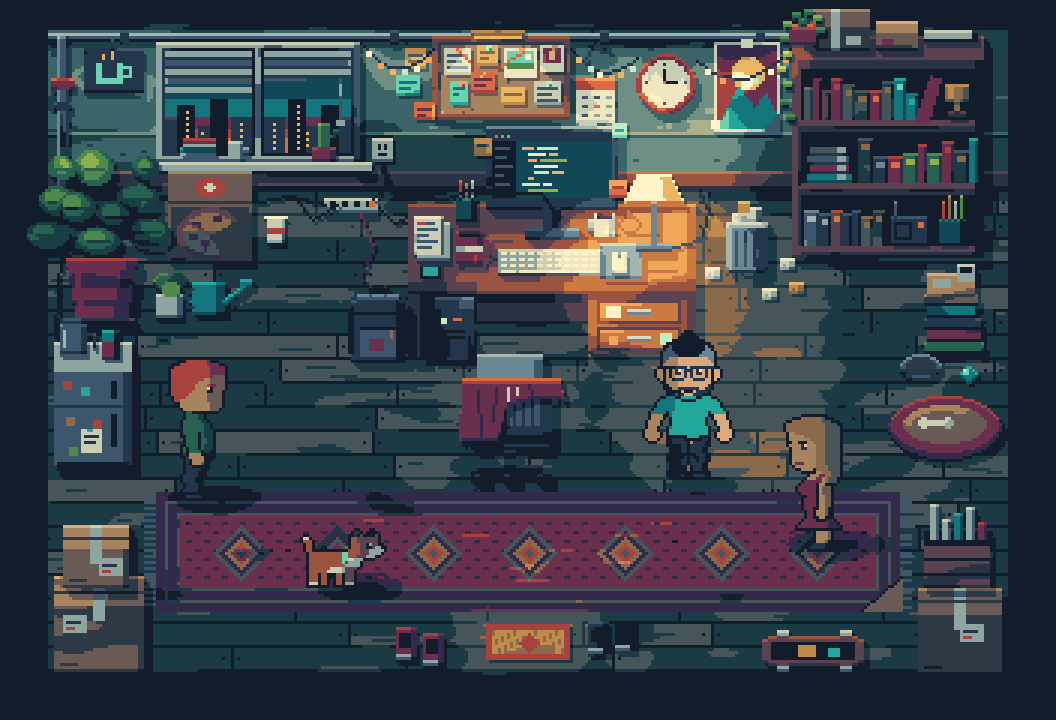
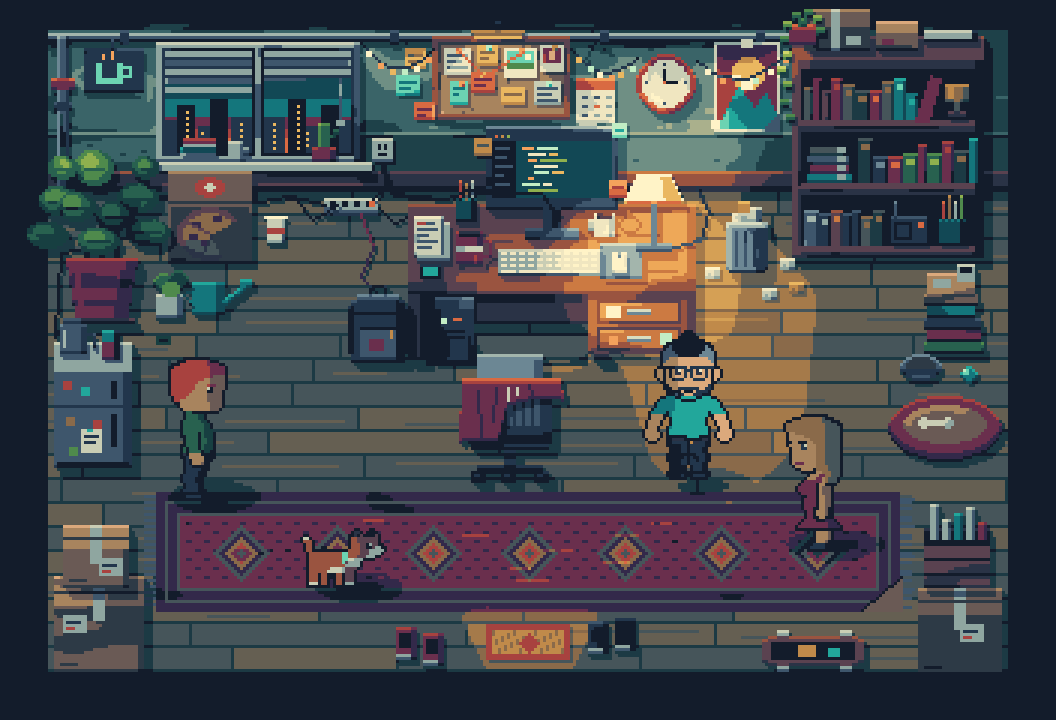
prototype(#65): studio second pass: plank floor, fish tank, walk-behind
The floor is whole planks in two close woods instead of blotches, in both
rooms. A fish tank and a taped court fill the middle. Tall things (tank,
shelving, arcade, lamps) can be walked behind.

diff --git a/art-tests/claude-drawn/directions/make_d06_studio.py b/art-tests/claude-drawn/directions/make_d06_studio.py
@@ -16,24 +16,25 @@ from PIL import Image, ImageChops, ImageDraw
 sys.path.insert(0, os.path.dirname(os.path.abspath(__file__)))     # python3 -I leaves the script's folder out
 import make_d06_lived_in_clutter as m
 from make_d06_lived_in_clutter import (R, E, G, L, T, prop, light, note, FLOOR, DESK, WALL, GREEN, METAL, TEAL,
-                                       CARD, RED, PAPER, FLAT)
+                                       CARD, RED, PAPER, WOOD, FLAT)
 
 W, H, TILE, COLS, ROWS = 896, 512, 32, 28, 16
 X0, X1, Y0, Y1 = 16, W - 16, 64, H - 16     # the floor
 DOOR = 13                                   # the door gap is this column of the bottom edge
 SPOTS = {'hero': [DOOR, 14], 'dana': [18, 2], 'visitor': [2, 3], 'dog': [[24, 14], [25, 14]]}
-THINGS = []                                 # (mask, solid) of every thing of the last build
+THINGS = []                                 # (mask, solid, tall) of every thing of the last build
 
 
 @contextmanager
-def thing(solid=True):
+def thing(solid=True, tall=False):
     """What is drawn inside is one thing on the tile grid (a desk with all that is on it, a rug): its mask is
     kept, with whether it is solid or flat (may be stood on). What hangs on the wall above the floor is not
-    wrapped: rows 0 and 1 are never free."""
+    wrapped: rows 0 and 1 are never free. tall: it stands on the tile row of its foot and all of it above
+    that row is height, not depth (a lamp, a cabinet seen from the front), so a figure can stand behind it."""
     m0, l0 = m.mat.copy(), m.lvl.copy()
     yield
     d = ImageChops.lighter(ImageChops.difference(m.mat, m0), ImageChops.difference(m.lvl, l0))
-    THINGS.append((d.point(lambda v: 255 * (v > 0)), solid))
+    THINGS.append((d.point(lambda v: 255 * (v > 0)), solid, tall))
 
 
 def tiles():
@@ -43,8 +44,16 @@ def tiles():
     a figure would stand on them) cover more than 10% of those rows. Rows 0, 1, 15 and columns 0, 27 are wall.
     Upper layer: in a free tile, the pixels of solid things that go on below the tile's bottom edge. Such a thing
     stands in front of a figure on that tile (a chair back, the top of a monitor, a lamp shade), so the game
-    draws those pixels over the figures."""
-    solids = [(np.asarray(mk) > 0, mk.getbbox()[3]) for mk, solid in THINGS if solid and mk.getbbox()]
+    draws those pixels over the figures. What a tall thing has above the row of its foot blocks nothing and is
+    upper layer wherever the tile is free."""
+    solids, high = [], np.zeros((H, W), bool)
+    for mk, solid, tall in THINGS:
+        if solid and mk.getbbox():
+            a, bottom = np.asarray(mk) > 0, mk.getbbox()[3]
+            if tall:
+                cut = (bottom - 1) // TILE * TILE
+                high[:cut] |= a[:cut]; a = a.copy(); a[:cut] = False
+            solids.append((a, bottom))
     free, upper = set(), np.zeros((H, W), bool)
     for row in range(2, ROWS - 1):
         y0, y1 = row * TILE, row * TILE + TILE
@@ -58,7 +67,7 @@ def tiles():
             s, o = stand[:, col * TILE:col * TILE + TILE], over[:, col * TILE:col * TILE + TILE]
             if (s | o).mean() > .5 or (s | o)[12:].mean() > .2 or s[12:].mean() > .1:
                 continue
-            free.add((col, row)); upper[y0:y1, col * TILE:col * TILE + TILE] = o
+            free.add((col, row)); upper[y0:y1, col * TILE:col * TILE + TILE] = o | high[y0:y1, col * TILE:col * TILE + TILE]
     return free, Image.fromarray(upper.astype(np.uint8) * 255)
 
 
@@ -118,17 +127,7 @@ def shell():
     for x in range(20, X1, 9):
         R(x + rnd.randrange(3), 47 + rnd.randrange(8), 2, 1, WALL, 2.3)                        # scuffs
     R(X0, 57, fw, 7, DESK, 2.8); R(X0, 57, fw, 1, DESK, 4); R(X0, 62, fw, 2, DESK, 1.6)       # skirting
-    for i in range((Y1 - Y0) // 8):                            # floorboards
-        y, x = Y0 + 8 * i, X0 - rnd.randrange(40)
-        while x < X1:
-            n = rnd.randrange(34, 80)
-            R(x, y, n, 8, FLOOR, 3 + rnd.choice((-.4, -.2, 0, 0, .2, .35)))
-            R(x, y, 1, 8, FLOOR, 1.8)
-            for _ in range(2):
-                R(x + rnd.randrange(3, n - 16), y + rnd.randrange(2, 6), rnd.randrange(4, 14), 1, FLOOR, 2.5)
-            R(x + 2, y + 3, 1, 1, FLOOR, 1.5); R(x + n - 3, y + 3, 1, 1, FLOOR, 1.5)             # nails
-            x += n
-        R(X0, y + 7, fw, 1, FLOOR, 2)
+    m.boards(X0, X1, Y0, Y1, rnd)
     R(0, 0, W, 8, 0, 0); R(0, 0, X0, H, 0, 0); R(X1, 0, W - X1, H, 0, 0)
     R(0, Y1, DOOR * TILE, H - Y1, 0, 0); R(DOOR * TILE + TILE, Y1, W, H - Y1, 0, 0)
     T(X0, Y0, fw, 3, -1); R(DOOR * TILE, Y1, TILE, 1, FLOOR, 1.5)                               # the wall's shadow, the door sill
@@ -177,18 +176,46 @@ def scraps(rnd, n):
 
 
 def wear(rnd):
-    """The floor of a big room: worn paths lighter, a few stains darker, long scratches."""
-    for x, y, w, h, d in ((400, 430, 70, 5, .5), (392, 438, 90, 6, .5), (410, 420, 46, 4, .5), (300, 140, 80, 5, .4),
-                          (420, 300, 60, 4, .4), (200, 330, 70, 5, .4), (640, 180, 90, 5, .4), (700, 400, 60, 4, .4),
-                          (120, 136, 60, 4, .4)):
-        T(x, y, w, h, d)
-    for x, y, w, h in ((250, 280, 14, 9), (690, 330, 18, 10), (140, 400, 12, 8), (560, 420, 16, 9), (800, 250, 12, 8),
-                       (330, 200, 10, 7)):
-        with prop(cast=None, rim=0):
-            E(x, y, w, h, FLOOR, 2.3); E(x + 2, y + 1, w - 5, h - 4, FLOOR, 2.6)
-    for _ in range(26):
+    """What use has left on the floor: a few scratches along the boards, and a court taped out for the table
+    tennis, its tape worn through in places."""
+    for _ in range(10):
         x, y = rnd.randrange(X0 + 10, X1 - 40), rnd.randrange(Y0 + 30, Y1 - 6)
-        L([(x, y), (x + rnd.randrange(8, 26), y + rnd.randrange(-3, 4))], FLOOR, 2.4)
+        L([(x, y), (x + rnd.randrange(8, 22), y + rnd.randrange(-1, 2))], FLOOR, 2.3)
+    x0, y0, x1, y1 = 200, 270, 346, 362
+    for x in range(x0, x1, 4):
+        for y in (y0, y1):
+            if rnd.random() < .8:
+                R(x, y, 4, 2, PAPER, 4.6)
+    for y in range(y0, y1, 4):
+        for x in (x0, x1 - 2):
+            if rnd.random() < .8:
+                R(x, y, 2, 4, PAPER, 4.6)
+
+
+def aquarium(x, y):
+    """A fish tank on a low cabinet, 60 wide and 56 high. The tank is lit from its lid; pools in room_lights()."""
+    with prop(cast=(3, 4)):
+        R(x, y + 38, 60, 18, DESK, 3); R(x, y + 38, 60, 2, DESK, 4.2); R(x + 29, y + 41, 2, 14, DESK, 2)       # cabinet, two doors
+        R(x + 13, y + 46, 5, 1, DESK, 4.6); R(x + 42, y + 46, 5, 1, DESK, 4.6); R(x, y + 55, 60, 1, DESK, 1.6)
+        R(x + 2, y, 56, 38, METAL, 1.6); R(x + 2, y, 56, 3, METAL, 3)                                           # frame, lid
+        R(x + 4, y + 3, 52, 32, TEAL + FLAT, 2); R(x + 4, y + 3, 52, 12, TEAL + FLAT, 3); R(x + 4, y + 3, 52, 2, TEAL + FLAT, 5)
+        R(x + 4, y + 31, 52, 4, CARD + FLAT, 4); R(x + 9, y + 30, 9, 2, CARD + FLAT, 4); R(x + 38, y + 30, 12, 1, CARD + FLAT, 4)     # sand
+        for px, h in ((8, 16), (11, 10), (14, 20), (41, 22), (45, 13), (50, 8)):                                # weed
+            R(x + px, y + 31 - h, 2, h, GREEN + FLAT, 4); R(x + px + 1, y + 31 - h + 2, 1, h - 2, GREEN + FLAT, 3)
+        R(x + 22, y + 26, 9, 5, METAL + FLAT, 3); R(x + 24, y + 24, 5, 2, METAL + FLAT, 4); R(x + 25, y + 28, 3, 3, METAL + FLAT, 1)  # a rock with a hole
+        for px, py, c, back in ((19, 9, RED, 1), (31, 15, FLOOR, 0), (26, 20, RED, 0), (46, 8, FLOOR, 1), (36, 23, PAPER, 1)):       # fish
+            R(x + px, y + py, 5, 3, c + FLAT, 5); R(x + px + (5 if back else -2), y + py - 1 + (px % 2), 2, 4 - (px % 2), c + FLAT, 4)
+            R(x + px + (0 if back else 4), y + py + 1, 1, 1, METAL + FLAT, 0)
+        for bx, by in ((34, 8), (35, 12), (33, 17), (16, 6)):                                                   # bubbles
+            R(x + bx, y + by, 1, 1, PAPER + FLAT, 6)
+    with prop(cast=(1, 1)):                                     # on the lid: fish food, a net
+        R(x + 6, y - 5, 5, 5, RED, 4); R(x + 6, y - 5, 5, 1, PAPER, 5); R(x + 40, y - 2, 12, 2, METAL, 3.4); R(x + 50, y - 4, 5, 4, GREEN, 3.4)
+    if m.EVE:                                                   # the tank is the middle of the room's lamp
+        light(1, 3, [(x - 6, y - 8), (x + 64, y - 10), (x + 72, y + 30), (x + 66, y + 66), (x - 4, y + 70), (x - 12, y + 26)])
+        light(.8, 5, [(x - 22, y + 30), (x + 30, y + 22), (x + 84, y + 36), (x + 90, y + 84), (x + 26, y + 98), (x - 30, y + 80)])
+        light(.5, 8, [(x - 50, y + 4), (x + 40, y - 26), (x + 112, y + 16), (x + 120, y + 96), (x + 30, y + 124), (x - 56, y + 96)])
+    else:
+        light(.5, 3, [(x - 6, y + 50), (x + 66, y + 50), (x + 72, y + 70), (x - 10, y + 72)])
 
 
 # --- on the wall ----------------------------------------------------------------------------------------------
@@ -928,7 +955,7 @@ def draw():
     m.board(328, 12); m.clock(396, 18); m.poster(422, 14, sock=(308, 46))
     radiator(452, 40)
     with thing():
-        m.window(494, 14, blind=(2, 6), sun=False, sill=False)
+        m.window(494, 14, blind=(2, 6), sun=False, sill=False, town=((0, 22, 7, 1), (7, 29, 4, 2), (12, 24, 5, 2), (18, 17, 5, 1), (24, 27, 5, 2)))
     whiteboard(580, 14); hooks(638, 20); frames(770, 8)
     m.fairy_lights(((304, 14, 328, 16, 7), (374, 16, 396, 19, 6), (416, 20, 448, 15, 8), (448, 15, 492, 17, 9),
                     (700, 12, 740, 14, 8), (740, 14, 770, 11, 6), (826, 12, 878, 16, 9)))
@@ -972,7 +999,7 @@ def draw():
     # the reading corner
     with thing():
         armchair(802, 142)
-    with thing():
+    with thing(tall=True):
         floor_lamp(854, 186)
     with thing():
         m.book_pile(770, 128)
@@ -992,9 +1019,9 @@ def draw():
     # the lounge
     with thing():
         sofa(512, 233)
-    with thing():
+    with thing(tall=True):
         tall_plant(488, 272)
-    with thing():
+    with thing(tall=True):
         floor_lamp(624, 284)
     with thing():
         beanbag(610, 292)
@@ -1005,8 +1032,10 @@ def draw():
     # the middle of the room
     with thing():
         pingpong(226, 292)
+    with thing(tall=True):
+        aquarium(354, 232)
     # right wall
-    with thing():
+    with thing(tall=True):
         arcade(834, 226)
     with thing():
         cabinet(822, 320)
@@ -1019,7 +1048,7 @@ def draw():
     # left wall: amp, storage corner
     with thing():
         amp(34, 290)
-    with thing():
+    with thing(tall=True):
         rack(34, 350)
     with thing():
         m.box(35, 420, 28, 9, 17, -.2, 12)
@@ -1044,7 +1073,7 @@ def draw():
             R(782, 470, 10, 6, TEAL, 3); R(782, 470, 4, 6, TEAL, 2); R(789, 471, 3, 2, PAPER, 5)
     with thing():
         bench(324, 454)
-    with thing():
+    with thing(tall=True):
         tall_plant(488, 462)
     with thing(False):
         for sx, sy, c in ((392, 482, RED), (401, 484, RED), (454, 481, METAL), (463, 483, METAL)):

diff --git a/art-tests/claude-drawn/directions/make_d06_lived_in_clutter.py b/art-tests/claude-drawn/directions/make_d06_lived_in_clutter.py
@@ -1,7 +1,7 @@
 # Direction 6, "Lived-in clutter" (reports/Pixel art style directions.md), as one still.
 # The room is redrawn; only the layout of the office corner and the cast sheets come from the existing test.
-#   palette: nine ramps of seven steps. Every ramp starts on the same deep teal (K) and ends on the same pale
-#     amber (HI), so shadow is teal and light is amber whatever the material. 45 colours at most.
+#   palette: ten ramps of seven steps. Every ramp starts on the same deep teal (K) and ends on the same pale
+#     amber (HI), so shadow is teal and light is amber whatever the material. 48 colours at most.
 #   environment: no outlines. A pixel is a material and a level on that material's ramp; an object is told from
 #     its neighbour by a lit top edge, a dark bottom edge and the shadow it casts down and right.
 #   light is painted in: pools of level (window, lamp, fairy lights) are added before the ramp is looked up, and
@@ -28,9 +28,10 @@ RAMPS = [None,
          ['124855', '14767c', '22a79b', '6cd3b2', 'c2edc4'],    # TEAL
          ['2d3a46', '6a5a55', 'a8845e', 'dba97c', 'f0d09c'],    # CARD   cardboard, cork, skin
          ['33294a', '6a2f4d', 'a8423f', 'd96a42', 'f4a25c'],    # RED
-         ['22364c', '3e566c', '8fa6a0', 'c9cdb4', 'f0e6c0']]    # PAPER  white things; its darks are METAL's
+         ['22364c', '3e566c', '8fa6a0', 'c9cdb4', 'f0e6c0'],    # PAPER  white things; its darks are METAL's
+         ['1c3a44', '655f52', 'a57a4a', 'd5a055', 'eab760']]    # WOOD   the floor's second wood: half a step off FLOOR
 RAMPS = [None] + [[K] + r + [HI] for r in RAMPS[1:]]
-FLOOR, DESK, WALL, GREEN, METAL, TEAL, CARD, RED, PAPER = range(1, 10)
+FLOOR, DESK, WALL, GREEN, METAL, TEAL, CARD, RED, PAPER, WOOD = range(1, 11)
 FLAT = 50                       # material + FLAT: not lit, not shadowed (screens, bulbs, the sky)
 
 mat, lvl, shd = Image.new('L', (W, H)), Image.new('L', (W, H)), Image.new('L', (W, H))
@@ -93,6 +94,23 @@ def light(amp, blur, draw):
 
 
 # --- room shell -----------------------------------------------------------------------------------------------
+def boards(x0, x1, y0, y1, rnd):
+    """Floorboards. A plank is one of two woods half a step apart, and it is that wood from end to end: the
+    floor's tone changes at plank edges only, never in patches across them."""
+    for y in range(y0, y1, 8):
+        x = x0 - rnd.randrange(40)
+        while x < x1:
+            n = rnd.randrange(40, 96)
+            a, b = (FLOOR, WOOD) if rnd.random() < .55 else (WOOD, FLOOR)
+            R(x, y, n, 8, a, 3.3)
+            if rnd.random() < .6:                               # one streak of grain, in the other wood
+                g = rnd.randrange(10, n - 12)
+                R(x + rnd.randrange(4, n - g - 2), y + rnd.randrange(2, 6), g, 1, b, 3.3)
+            R(x, y, 1, 8, FLOOR, 2.3)                           # the joint at its end
+            x += n
+        R(x0, y + 7, x1 - x0, 1, FLOOR, 2.3)
+
+
 def shell():
     rnd = random.Random(3)
     R(16, 8, 320, 56, WALL, 3.1)
@@ -107,17 +125,7 @@ def shell():
     for x in range(20, 336, 9):
         R(x + rnd.randrange(3), 47 + rnd.randrange(8), 2, 1, WALL, 2.3)                        # scuffs
     R(16, 57, 320, 7, DESK, 2.8); R(16, 57, 320, 1, DESK, 4); R(16, 62, 320, 2, DESK, 1.6)    # skirting
-    for i in range(20):                                        # floorboards
-        y, x = 64 + 8 * i, 16 - rnd.randrange(40)
-        while x < 336:
-            n = rnd.randrange(34, 80)
-            R(x, y, n, 8, FLOOR, 3 + rnd.choice((-.4, -.2, 0, 0, .2, .35)))
-            R(x, y, 1, 8, FLOOR, 1.8)
-            for _ in range(2):
-                R(x + rnd.randrange(3, n - 16), y + rnd.randrange(2, 6), rnd.randrange(4, 14), 1, FLOOR, 2.5)
-            R(x + 2, y + 3, 1, 1, FLOOR, 1.5); R(x + n - 3, y + 3, 1, 1, FLOOR, 1.5)             # nails
-            x += n
-        R(16, y + 7, 320, 1, FLOOR, 2)
+    boards(16, 336, 64, 224, rnd)
     R(0, 0, W, 8, 0, 0); R(0, 0, 16, H, 0, 0); R(336, 0, 16, H, 0, 0); R(0, 224, 160, 16, 0, 0); R(192, 224, 160, 16, 0, 0)
     T(16, 64, 320, 3, -1); R(160, 224, 32, 1, FLOOR, 1.5)      # the wall's shadow, the door sill
 
@@ -156,7 +164,10 @@ def fairy_lights(strands=((120, 14, 144, 16, 7), (190, 16, 212, 19, 6), (232, 20
     light(1 if EVE else .7, 2.5, lambda d: [d.ellipse((x - 4, y - 3, x + 5, y + 6), fill=255) for x, y in bulbs])
 
 
-def window(x, y, blind=(5, 3), sun=True, sill=True):
+TOWN = ((0, 26, 5, 2), (4, 21, 6, 1), (11, 28, 5, 2), (15, 19, 6, 1), (22, 25, 7, 2))    # the skyline: x, top, width, tone
+
+
+def window(x, y, blind=(5, 3), sun=True, sill=True, town=TOWN):
     sky = ((0, 12, TEAL, 3), (10, 6, TEAL, 4), (15, 5, TEAL, 5), (19, 15, FLOOR, 5), (27, 7, RED, 5)) if not EVE else \
           ((0, 10, METAL, 1), (9, 8, TEAL, 1), (16, 7, TEAL, 2), (22, 5, RED, 2), (26, 4, RED, 3), (29, 5, RED, 4))     # dusk
     with prop(cast=(2, 3)):
@@ -165,7 +176,7 @@ def window(x, y, blind=(5, 3), sun=True, sill=True):
             R(px - 1, y + 2, 31, 36, PAPER, 2)
             for dy, h, m, l in sky:
                 R(px, y + 3 + dy, 29, h, m + FLAT, l)
-            for bx, by, bw, m in ((0, 26, 5, 2), (4, 21, 6, 1), (11, 28, 5, 2), (15, 19, 6, 1), (22, 25, 7, 2)):
+            for bx, by, bw, m in town:
                 bx = bx if n == 0 else 29 - bx - bw
                 R(px + bx, y + by, bw, 37 - by, METAL + FLAT, m - EVE)
                 for wy in range(by + 2, 36, 3 - EVE):           # more windows are lit in the evening
@@ -674,7 +685,7 @@ def render():
     for i in range(W * H):
         m, v = M[i], V[i] / U
         if m and m < FLAT:
-            v += total[i] - S[i] / 255 - F[i] / 255 * 1.3 + (N[i] - 128) / 128 * (.3 if m in (FLOOR, WALL) else .12)   # brushwork on the big surfaces
+            v += total[i] - S[i] / 255 - F[i] / 255 * 1.3 + (N[i] - 128) / 128 * (.3 if m == WALL else 0 if m in (FLOOR, WOOD) else .12)   # brushwork on the plaster; planks stay whole
         out.append(rgb(RAMPS[m % FLAT][max(0, min(6, int(v + .5)))] if m else K))
     cast(out, total)
     im = Image.new('RGB', (W, H)); im.putdata(out)

diff --git a/art-tests/pixellab/NOTES.md b/art-tests/pixellab/NOTES.md
@@ -253,5 +253,14 @@ Asi asked whether Claude can run Aseprite or just build the characters itself. B
   the middle of the room is plain boards; the desk corner, plants and window view repeat the small room; the walk-behind layer
   is only lamp shades and was not seen working in a frame; a figure standing right below another covers it with its head;
   dialogue box still in the old style; no phone test.
+- Studio, second pass (Asi: "The floor looks very much repetitive and like a bit broken. Let's work on that and the other weak
+  points"). Floor: the blotches came from a blob noise and from wear patches that crossed the boards; now a plank is one of two
+  woods half a step apart (new ramp WOOD, 3 colours, 48 in all) and tone changes at plank edges only, in both rooms, day and
+  evening. Middle of the room: a fish tank on a cabinet (it is the middle's lamp in the evening) and a court taped round the
+  table tennis. Walk-behind: `thing(tall=True)` marks what is height, not depth; the hero now stands behind the tank, the metal
+  shelving and the arcade, seen in the game (`game/in-game-studio-*behind*.png`). The second window has its own skyline.
+  Still open: light pools in the evening have smooth outlines now that the floor has no noise; the desk corner and the two
+  potted plants are still the small room's drawings; a figure right below another covers it with its head (the engine's
+  sorting, same in the Hall); the small room's `in-game-*.png` frames show the old floor; dialogue box, title screen, phone.
 - Limits: the two people reuse an existing body, so a character gets the hero's or Saruli's build and walk. A new body
   (a child, the alien, a coat) means drawing that body once by hand or by code.
